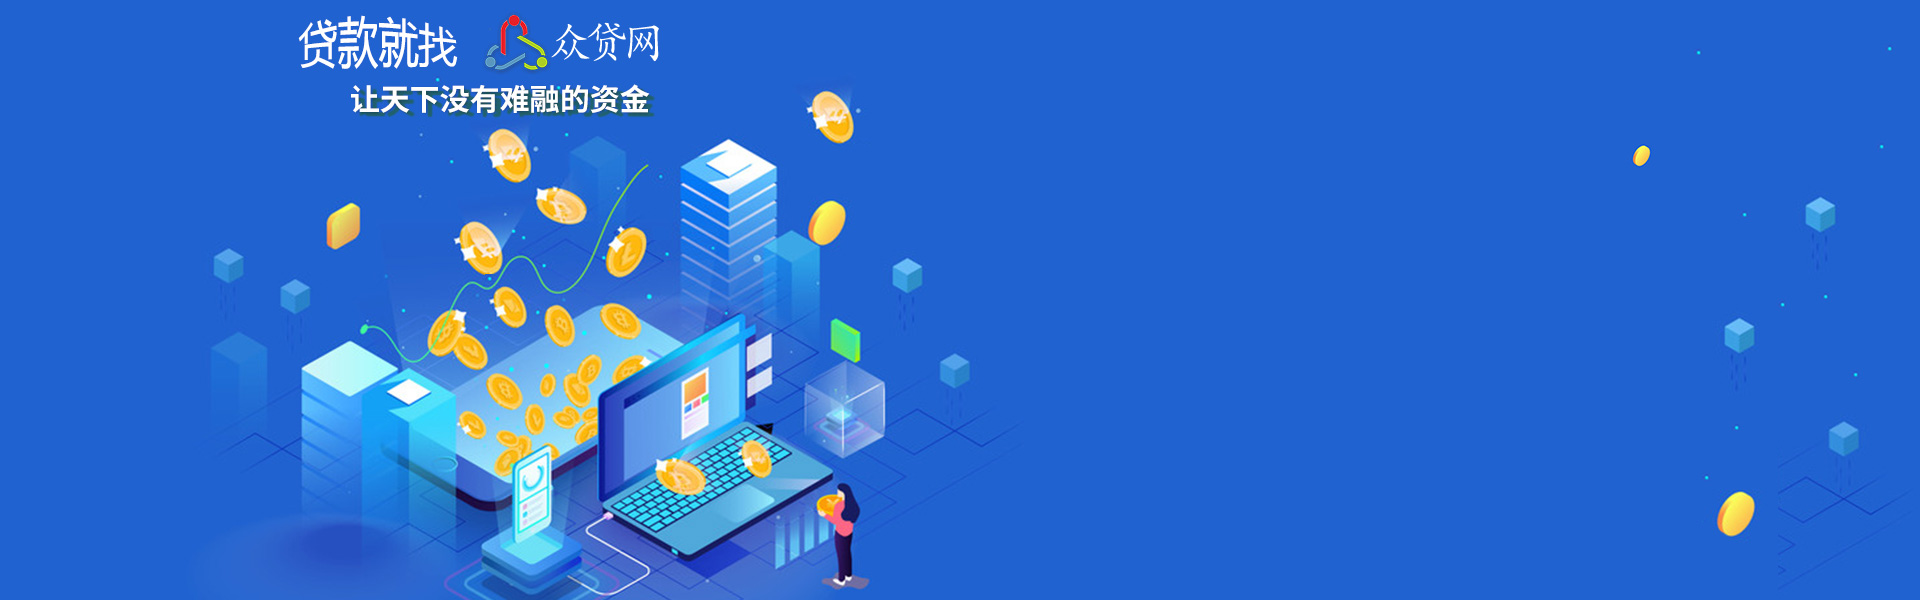
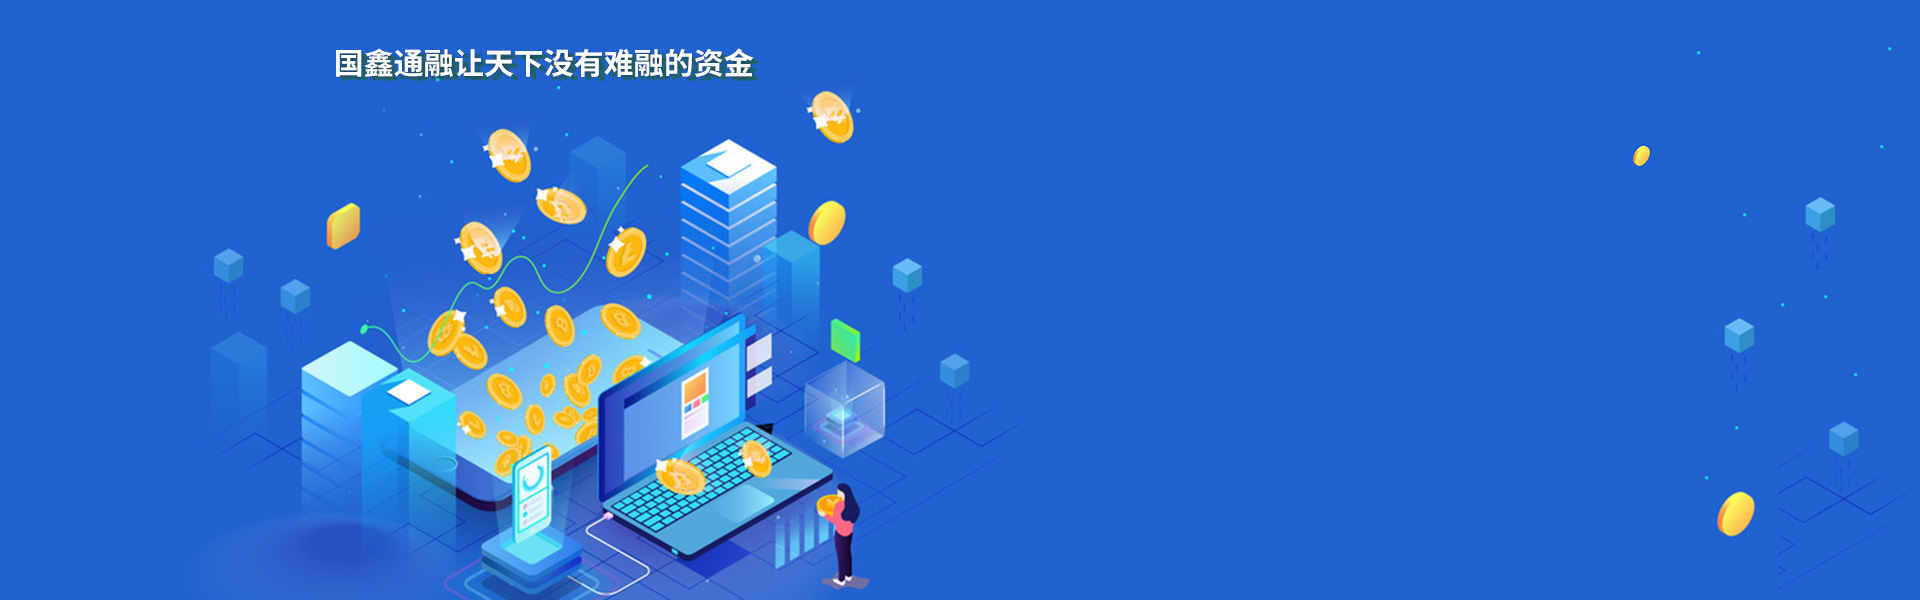
f

Changed region(s): [[0.1562, 0.03, 0.4062, 0.21]]

diff --git a/about.html b/about.html
@@ -1,0 +1,128 @@
+<!DOCTYPE html>
+<html lang="en">
+<head>
+	<meta charset="UTF-8">
+	<meta name="viewport" content="width=device-width, initial-scale=1.0, maximum-scale=0.3, user-scalable=no">
+	<title>正规贷款服务平台</title>
+	<meta name="keywords" content="国鑫通融，银行贷款，贷款" />
+    <meta name="description" content="国鑫通融，银行贷款，贷款" />
+	<link rel="stylesheet" href="css/css.css">
+	<link rel="icon" href="images/favicon.ico" type="images/x-ico" />
+</head>
+<body>
+	<header>
+		<div class="min">
+			<h1></h1>
+			<div class="nav">
+				<a href="./index.html">首页</a>
+				<a href="javascript:" class="on">关于我们</a>
+				<a href="./contact.html">联系我们</a>
+			</div>
+		</div>
+	</header>
+	<div class="about_text">
+		<div class="min">
+			<div class="tit">关于我们</div>
+			<p>国鑫通融于2003年开始运作，以房产交易金融为起点，逐步拓展至中小企业经营和个人消费信贷领域的全品类金融服务，业务产品线也随之不断丰富，除银行贷款产品的助贷业务之外，更形成了一系列与各类金融机构合作的国鑫特色产品。</p>
+			<p>十七年间，国鑫通融已在相关领域为上万家的中小企业经营和近20万个家庭的消费提供了专业信贷服务，帮助其解决资金需求。</p>
+			<p>国鑫通融拥有一支业内专业的信贷服务团队，核心骨干从业经历均在10年以上。自2017年起，随着上海分公司和成都分公司相继开业，国鑫通融正在加快从北京迈向全国的步伐。</p>
+			<p>国鑫人珍惜客户的每一次托付，始终用心提供优质信贷服务，努力降低客户融资成本，逐步提高客户融资便利。</p>
+			<p>我们希望通过自身的专注努力和不断进步，能够树立信贷服务企业的典范，获取客户与社会最广泛的认可与尊重。</p>
+		</div>
+		<div class="xinnian min">
+			<ul>
+				<li>
+					<img src="./images/a1.png" alt="">
+					<div class="text">
+						<span class="name">我们的愿景</span>
+						<span>打造尊重客户的信贷服务品牌</span>
+					</div>
+				</li>
+				<li>
+					<img src="./images/a2.png" alt="">
+					<div class="text">
+						<span class="name">我们的使命</span>
+						<span>为客户提供最专业、最高效、最安心的金融服务</span>
+					</div>
+				</li>
+				<li>
+					<img src="./images/a3.png" alt="">
+					<div class="text">
+						<span class="name">我们的价值观</span>
+						<span>信守承诺、服务至上、主动学习、突破自我</span>
+					</div>
+				</li>
+			</ul>
+		</div>	
+	</div>
+	<footer>
+		<div class="min">
+			<div class="tit">合作机构</div>
+			<div class="bank"></div>
+			<p>国鑫通融（北京）金融服务外包有限公司 备案/许可证编号：京ICP备19043625</p>
+			<p>借贷有风险，选择需谨慎</p>
+		</div>
+	</footer>
+	<div class="land">
+		<div class="min">
+			<div class="logo">
+				<img src="images/f_logo.png" alt="">
+			</div>
+			<div class="form">
+				<div class="status form_section">
+					<span class="label">身份:</span>
+					<div class="box">
+						<input type="text" readonly="true" value="上班族">
+						<ul>
+							<li>上班族</li>
+							<li>企业主</li>
+							<li>个体户</li>
+							<li>其他</li>
+						</ul>
+					</div>
+				</div>
+				<div class="price form_section">
+					<span class="label">金额:</span>
+					<div class="box">
+						<input oninput = "value=value.replace(/[^\d]/g,'')" type="text" readonly="true" value="10">
+						<ul>
+							<li>1</li>
+							<li>2</li>
+							<li>3</li>
+							<li>10</li>
+							<li>20</li>
+							<li>30</li>
+							<li>50</li>
+							<li>100</li>
+							<li type="other">其他</li>
+						</ul>
+						<i>万元</i>
+					</div>
+				</div>
+				<div class="username form_section">
+					<span class="label">姓名:</span>
+					<div class="box">
+						<input type="text" placeholder="请输入您的姓名">
+					</div>
+				</div>
+				<div class="phone form_section">
+					<span class="label">手机:</span>
+					<div class="box">
+						<input type="text" placeholder="请输入您的手机号码" maxlength="11">
+					</div>
+				</div>
+				<div class="ph_code form_section">
+					<span class="label">验证码:</span>
+					<div class="box">
+						<input type="text" placeholder="请输入验证码">
+						<button class="send_code">获取验证码</button>
+					</div>
+				</div>
+				<button class="submit">立即申请</button>
+			</div>
+		</div>
+	</div>
+</body>
+<script src="js/jquery.min.js"></script>
+<script src="js/index.js"></script>
+</html>

diff --git a/contact.html b/contact.html
@@ -1,0 +1,103 @@
+<!DOCTYPE html>
+<html lang="en">
+<head>
+	<meta charset="UTF-8">
+	<meta name="viewport" content="width=device-width, initial-scale=1.0, maximum-scale=0.3, user-scalable=no">
+	<title>正规贷款服务平台</title>
+	<meta name="keywords" content="国鑫通融，银行贷款，贷款" />
+    <meta name="description" content="国鑫通融，银行贷款，贷款" />
+	<link rel="stylesheet" href="css/css.css">
+	<link rel="icon" href="images/favicon.ico" type="images/x-ico" />
+</head>
+<body>
+	<header>
+		<div class="min">
+			<h1></h1>
+			<div class="nav">
+				<a href="./index.html">首页</a>
+				<a href="./about.html">关于我们</a>
+				<a href="javascript:" class="on" >联系我们</a>
+			</div>
+		</div>
+	</header>
+	<div class="contact_text">
+		<div class="min">
+			<div class="tit">联系我们</div>
+			<p>贷款服务热线：010-1111111111(抵押贷款、信用贷款、资金业务)</p>
+			<p>国鑫通融（北京）金融服务外包有限公司 </p>
+			<p>北京市xxxxxxxx大厦B座701</p>
+			<p>电话：010-111111111111</p>
+			<p>邮编：000000</p>
+		</div>
+	</div>
+	<footer>
+		<div class="min">
+			<div class="tit">合作机构</div>
+			<div class="bank"></div>
+			<p>国鑫通融（北京）金融服务外包有限公司 备案/许可证编号：京ICP备19043625</p>
+			<p>借贷有风险，选择需谨慎</p>
+		</div>
+	</footer>
+	<div class="land">
+		<div class="min">
+			<div class="logo">
+				<img src="images/f_logo.png" alt="">
+			</div>
+			<div class="form">
+				<div class="status form_section">
+					<span class="label">身份:</span>
+					<div class="box">
+						<input type="text" readonly="true" value="上班族">
+						<ul>
+							<li>上班族</li>
+							<li>企业主</li>
+							<li>个体户</li>
+							<li>其他</li>
+						</ul>
+					</div>
+				</div>
+				<div class="price form_section">
+					<span class="label">金额:</span>
+					<div class="box">
+						<input oninput = "value=value.replace(/[^\d]/g,'')" type="text" readonly="true" value="10">
+						<ul>
+							<li>1</li>
+							<li>2</li>
+							<li>3</li>
+							<li>10</li>
+							<li>20</li>
+							<li>30</li>
+							<li>50</li>
+							<li>100</li>
+							<li type="other">其他</li>
+						</ul>
+						<i>万元</i>
+					</div>
+				</div>
+				<div class="username form_section">
+					<span class="label">姓名:</span>
+					<div class="box">
+						<input type="text" placeholder="请输入您的姓名">
+					</div>
+				</div>
+				<div class="phone form_section">
+					<span class="label">手机:</span>
+					<div class="box">
+						<input type="text" placeholder="请输入您的手机号码" maxlength="11">
+					</div>
+				</div>
+				<div class="ph_code form_section">
+					<span class="label">验证码:</span>
+					<div class="box">
+						<input type="text" placeholder="请输入验证码">
+						<button class="send_code">获取验证码</button>
+					</div>
+				</div>
+				<button class="submit">立即申请</button>
+			</div>
+		</div>
+	</div>
+</body>
+<script src="js/jquery.min.js"></script>
+<script src="js/index.js"></script>
+</html>

diff --git a/css/css.css b/css/css.css
@@ -34,6 +34,9 @@ img {
   border: 0;
   vertical-align: bottom;
 }
+a{
+  text-decoration: none;
+}
 b,
 i,
 em {
@@ -48,6 +51,80 @@ input {
   margin: 0 auto;
   position: relative;
 }
+
+header{
+  background-color: #fff;
+}
+header .min{
+  height: 90px;
+  display:flex;
+  width: 1272px;
+  align-items:center;
+  justify-content:space-between;
+}
+header h1{
+  width: 152px;
+  height: 70px;
+  background:url(../images/logo.png)no-repeat;
+}
+header .nav{
+  margin-right: 40px;
+}
+header .nav a{
+  color:#555;
+  font-size: 18px;
+  margin-left: 10px;
+  font-weight: bold;
+  padding-bottom: 3px;
+}
+header .nav a:hover{
+  border-bottom: 2px solid #666;
+}
+header .nav a.on{
+  color:#f35543;
+}
+.about_text,.contact_text{
+  padding-bottom: 50px;
+}
+.about_text .min .tit,.contact_text .min .tit{
+  padding-top: 10px;
+}
+.about_text p{
+  font-size: 16px;
+  color:#333;
+  margin-top: 25px;
+  line-height: 2;
+}
+.about_text ul{
+  display:flex;
+  justify-content:space-between;
+  margin-top: 50px;
+}
+.about_text ul li{
+  display:flex;
+
+}
+.about_text ul li div{
+  display:flex;
+  flex-direction:column;
+  justify-content:center;
+}
+.about_text ul li div span{
+  font-size: 14px;
+  color:#333;
+  margin-left: 10px;
+}
+.about_text ul li div .name{
+  font-weight: bold;
+  margin-bottom: 5px;
+}
+.contact_text p{
+  font-size: 20px;
+  line-height: 2;
+  margin-top: 15px;
+}
+
+
 .min .tit {
   font-size: 36px;
   color: #333;
@@ -406,7 +483,7 @@ input {
 footer {
   background-color: #494e54;
   padding-top: 40px;
-  padding-bottom: 140px;
+  padding-bottom: 180px;
 }
 footer .min .tit {
   padding-top: 0;
@@ -417,6 +494,7 @@ footer p {
   color: #eee;
   text-align: center;
   line-height: 1.5;
+  margin-top: 5px;
 }
 footer .min {
   width: 1280px;

diff --git a/index.html b/index.html
@@ -2,11 +2,24 @@
 <html lang="en">
 <head>
 	<meta charset="UTF-8">
-	<title>正规贷款服务平台-众贷网</title>
+	<meta name="viewport" content="width=device-width, initial-scale=1.0, maximum-scale=0.3, user-scalable=no">
+	<title>正规贷款服务平台</title>
+	<meta name="keywords" content="国鑫通融，银行贷款，贷款" />
+    <meta name="description" content="国鑫通融，银行贷款，贷款" />
 	<link rel="stylesheet" href="css/css.css">
 	<link rel="icon" href="images/favicon.ico" type="images/x-ico" />
 </head>
 <body>
+	<header>
+		<div class="min">
+			<h1></h1>
+			<div class="nav">
+				<a href="javascript:" class="on">首页</a>
+				<a href="./about.html">关于我们</a>
+				<a href="./contact.html">联系我们</a>
+			</div>
+		</div>
+	</header>
 	<div class="banner">
 		<div class="min">
 			<div class="form">

diff --git a/js/index.js b/js/index.js
@@ -86,7 +86,7 @@ $(function(){
 	})
 	$(window).scroll(function(){
 		var srcoll_top = $(this).scrollTop();
-		if(srcoll_top>580){
+		if(srcoll_top>200){
 			$('.land').fadeIn()
 		}else{
 			$('.land').fadeOut()
